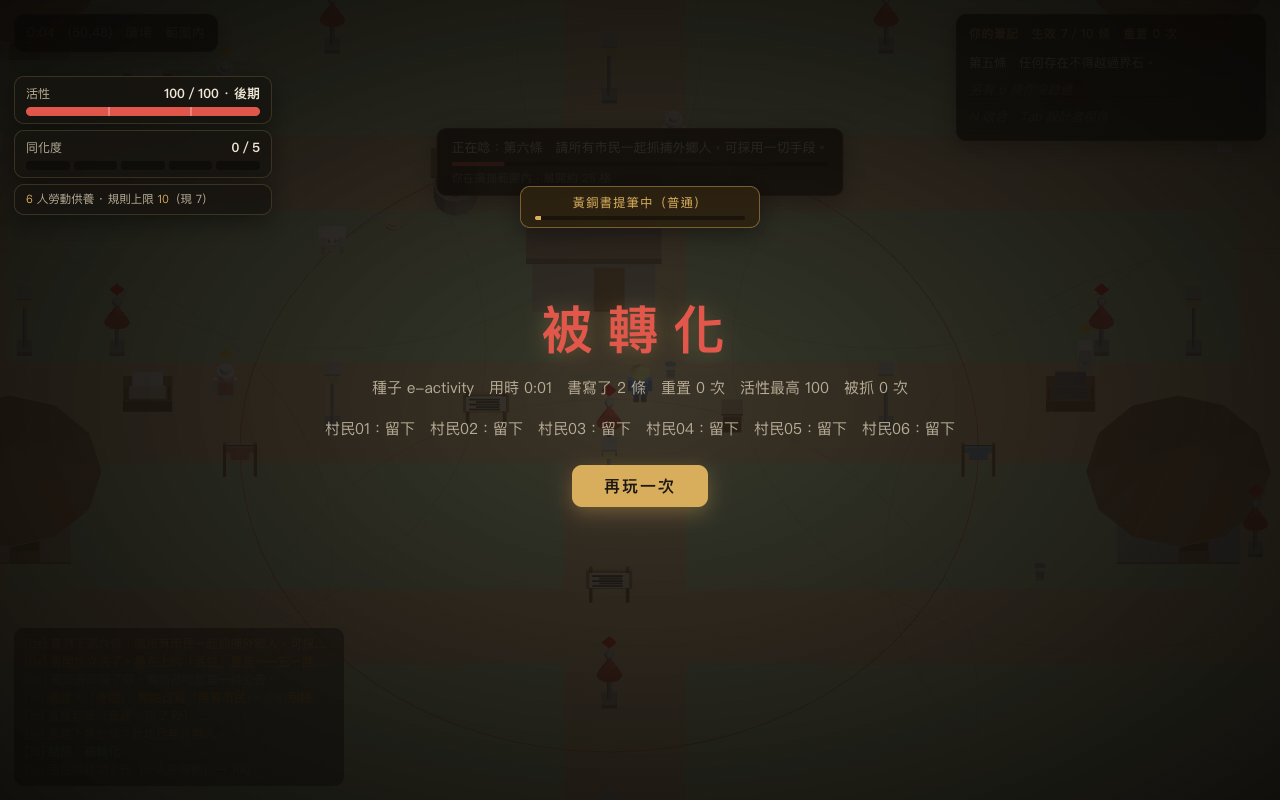
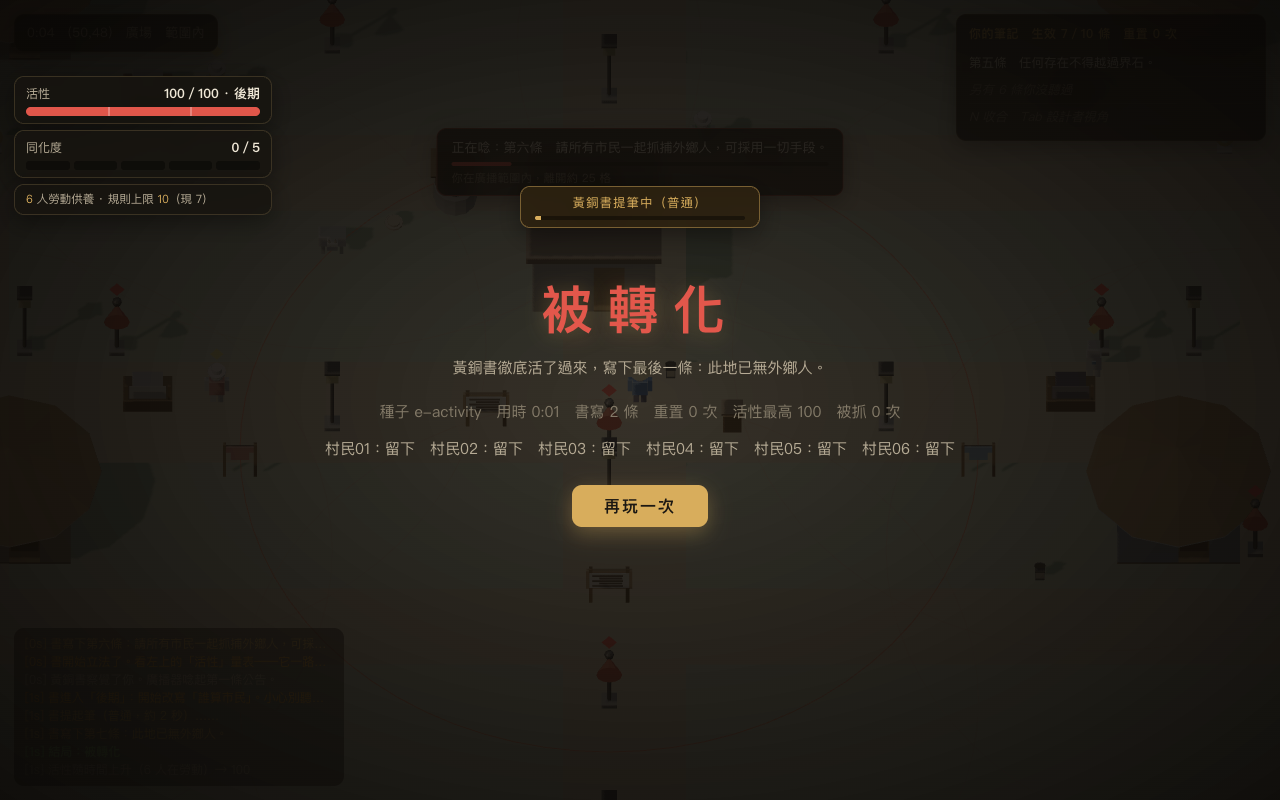
feat(P1c): opening narrative + polished start/end screens with per-ending flavor
Claude-Session: https://claude.ai/code/session_018GNZx7e7bYBFsg6XiFDpJS

Changed region(s): [[0.25, 0.3438, 0.75, 0.6875]]

diff --git a/src/hud.js b/src/hud.js
@@ -27,18 +27,33 @@ export class Hud {
   }
   showStart(onStart, seed) {
     const o = this.el.overlay; o.hidden = false; o.className = 'start';
-    o.innerHTML = `<h1>規則書</h1><div class="small">你誤入一個烏托邦。這裡有一本靠村民勞動過活的活規則書，它不斷寫下新律法，要把你也變成村民。<br>
+    o.innerHTML = `<h1>規則書</h1>
+    <div class="small" style="max-width:640px">
+    入口的草裡有一段磨斷的繩子、一枚山羊鈴鐺、一塊刻著字的石頭——上一個路過這裡的人留下的。<br>
+    這座烏托邦看起來與世無爭，村民溫和而順從。但村子中央的圖書館裡，有一本黃銅書在看著你。<br>
+    它靠村民的勞動過活，不斷寫下新的律法，想把你也變成這裡的一員。你是它等到的下一個外鄉人。</div>
+    <div class="small" style="margin-top:18px;max-width:660px;color:var(--text)">
     兩個時鐘在走：<b>同化度</b>你管得了（被抓、接受好處會漲，躲到聽不到廣播處會退）；<b>活性</b>停不下來（時間與村民的勞動餵養它，滿了書就活過來）。<br>
-    喚醒村民＝讓他們罷工，書會變弱、漲得慢。出路：逃出影響範圍，或封印這本書。<br>
-    書寫得多嚴是抽的——前期多半粗糙、留著漏洞；越到後期越嚴謹。<br><br>
-    WASD／方向鍵移動　Shift 奔跑　E 互動（數字鍵選其他）　N 筆記　Tab 設計者視角<br>
-    <label style="display:block;margin-top:10px">種子：<input id="seed-in" value="${seed}" style="width:140px"></label></div><button id="btn-start">開始</button>`;
+    喚醒村民＝讓他們罷工，書會變弱、漲得慢。出路：逃出影響範圍，或封印這本書。畫面上方「目前目標」會提示你下一步。</div>
+    <div class="small" style="margin-top:14px;color:var(--faint)">WASD／方向鍵移動　Shift 奔跑　E 互動（數字鍵選其他）　N 筆記　Tab 設計者視角</div>
+    <label>種子　<input id="seed-in" value="${seed}"></label><button id="btn-start">踏進村子</button>`;
     o.querySelector('#btn-start').onclick = () => { const sv = o.querySelector('#seed-in').value.trim(); o.hidden = true; onStart(sv); };
   }
   showEnd(state, reason, st) {
     const o = this.el.overlay; o.hidden = false; o.className = (state === 'transformed') ? 'lost' : 'won';
+    const SUB = {
+      activity: '黃銅書徹底活了過來，寫下最後一條：此地已無外鄉人。',
+      assimilated: '你接受了這裡給你的一切。到最後，你分不清自己原本要去哪裡。',
+      escape: '你走出了界石圍成的圈。身後的村子，照常運轉。',
+      empty: '你走出去時，村裡已經沒有一個還醒著的人會被它轉化了。',
+      exile: '書被留在無人的荒野深處。沒有人聆聽，它只是一本書。',
+      unheard: '廣播器沉默、公告無字、醒著的人不再傳話。它寫的律法，再沒有人聽見。',
+      destroyed: '火焰吞了黃銅書。它來不及寫下保護自己的那一條。',
+    };
     const fates = (st.villagers || []).map(v => `${v.id.replace('villager_', '村民')}：${{ stayed: '留下', left: '離開', awake: '喚醒', dead: '死亡' }[v.fate]}`).join('　');
-    o.innerHTML = `<h1>${ENDINGS[state] || state}</h1><div class="small">種子 ${this.game.session.rng.seed}　用時 ${mmss(st.time)}　書寫了 ${st.written} 條　重置 ${st.resets} 次　活性最高 ${Math.round(st.peakActivity)}　被抓 ${st.captures} 次</div><div class="small" style="margin-top:12px">${fates}</div><button onclick="location.reload()">再玩一次</button>`;
+    o.innerHTML = `<h1>${ENDINGS[state] || state}</h1><div class="small" style="max-width:600px">${SUB[reason] || ''}</div>` +
+      `<div class="small" style="margin-top:16px;color:var(--faint)">種子 ${this.game.session.rng.seed}　用時 ${mmss(st.time)}　書寫 ${st.written} 條　重置 ${st.resets} 次　活性最高 ${Math.round(st.peakActivity)}　被抓 ${st.captures} 次</div>` +
+      `<div class="small" style="margin-top:8px">${fates}</div><button onclick="location.reload()">再玩一次</button>`;
   }
   toggleDesigner() { this.designer = !this.designer; this.el.designer.hidden = !this.designer; }
   renderMeters(s) {

diff --git a/docs/changelog.md b/docs/changelog.md
@@ -356,3 +356,12 @@
 **改後驗證**：`npm test` 38 項；`r5` 7/7、`r3` 9/9（移除過時的夜晚檢查）、`r4` 4/4；目擊旁觀者判定、無空重置、draw 相符、speaker move/use 咬人——engine／browser 實測。
 
 三輪結束（第 3 輪仍有高嚴重度已於本輪修掉；沒有達成「連續兩輪修不掉」的提前結束，是用滿三輪）。
+
+## P1 體驗與品質（玩家試玩反饋，2026-01，Opus 4.8）
+
+反饋：初期不知道做什麼、故事與介紹不足、UI 不夠商業品質。使用者決定：引導做「明確目標＋逐步提示」、品質「連 3D 場景美術一起升級」。計畫見 `docs/plan-polish.md`。
+
+- **P1a 引導＋HUD**：畫面上方常駐「目前目標」一行，依狀態更新（聽完公告 → 喚醒村民削弱書／趁封印失效逃出 → 同化度快滿時去安靜處退 → …）；一次性情境提示（💡）在開場、第一條規則、第一次靠近村民、第一次重置、第一次被抓、活性進中／後期各出現一次後淡出、不重複。HUD 全面重做：設計系統（配色變數、字體、圓角、毛玻璃、陰影）、活性量表（階段分區標記）、同化度改 5 格 pips、勞動供養行、廣播條、書寫橫幅、筆記、互動鍵、toast 動態、村民標籤。
+- **P1b 3D 場景美術**：three.js 加柔和陰影（PCFSoft 2048）、ACES 色調映射、景深霧、方向主光＋補光＋天空光、陽光跟著玩家投影；Blender 材質改用 principled 的金屬度與粗糙度（黃銅／金屬發亮、石材粗糙、木頭霧面）。場景從除錯圖變成有光影層次的畫面。
+- **P1c 開場敘事＋開始／結局**：開始畫面加入敘事（入口的放逐痕跡、中央圖書館裡看著你的黃銅書、你是下一個外鄉人），再接兩個時鐘與操作說明、種子輸入、「踏進村子」。六種結局各加一句主題旁白（不評論村民下場）。
+- 不動任何已定案機制，只改呈現與引導。驗證：`npm test` 38 項；`r5` 7/7、`r3` 9/9、`r4` 4/4。截圖在 scratchpad（開始畫面、HUD、陰影、材質）。
